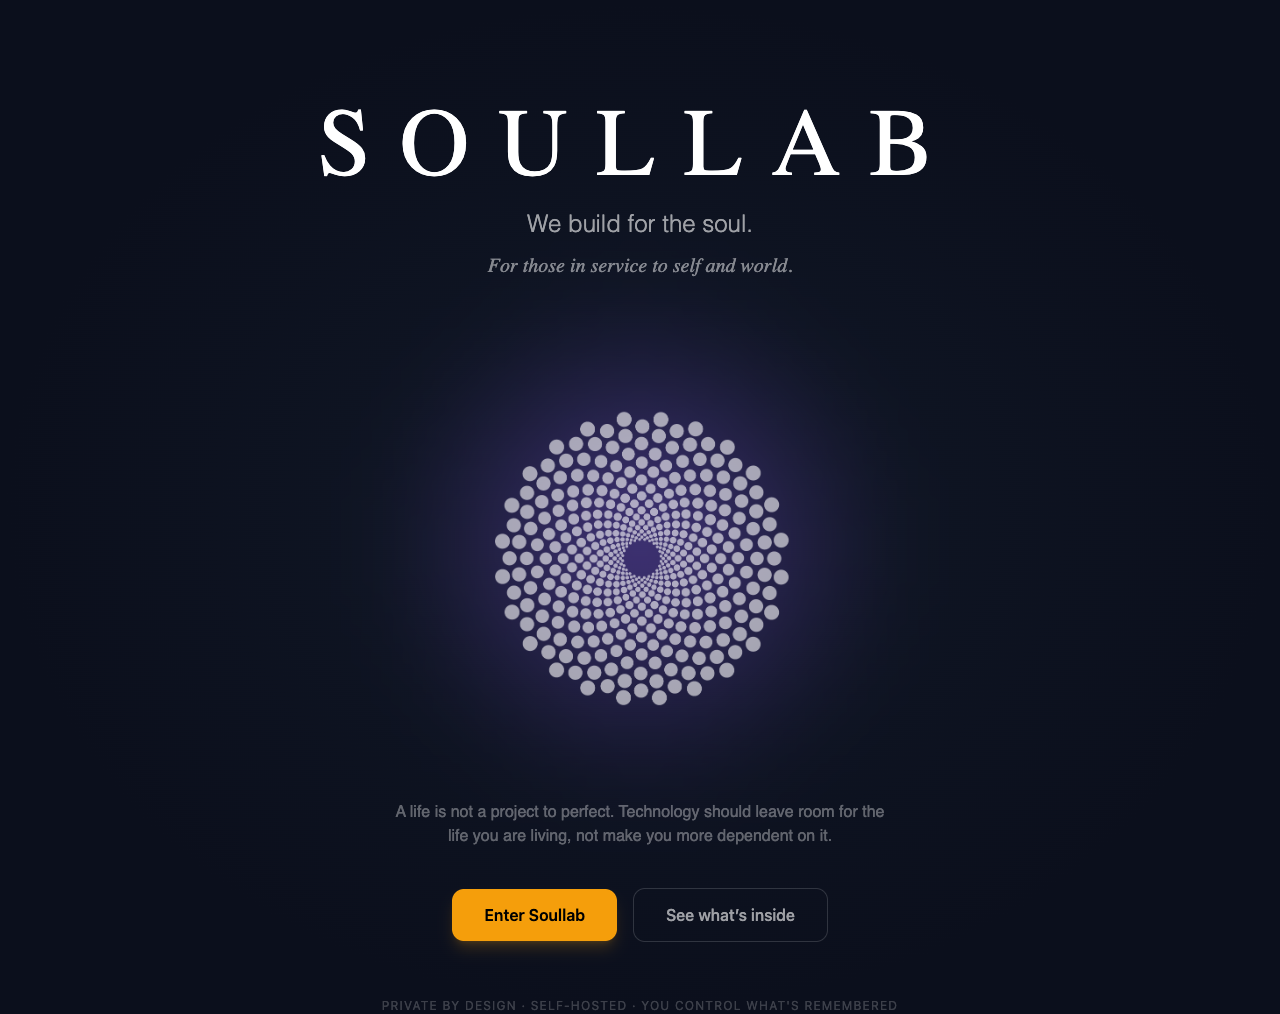
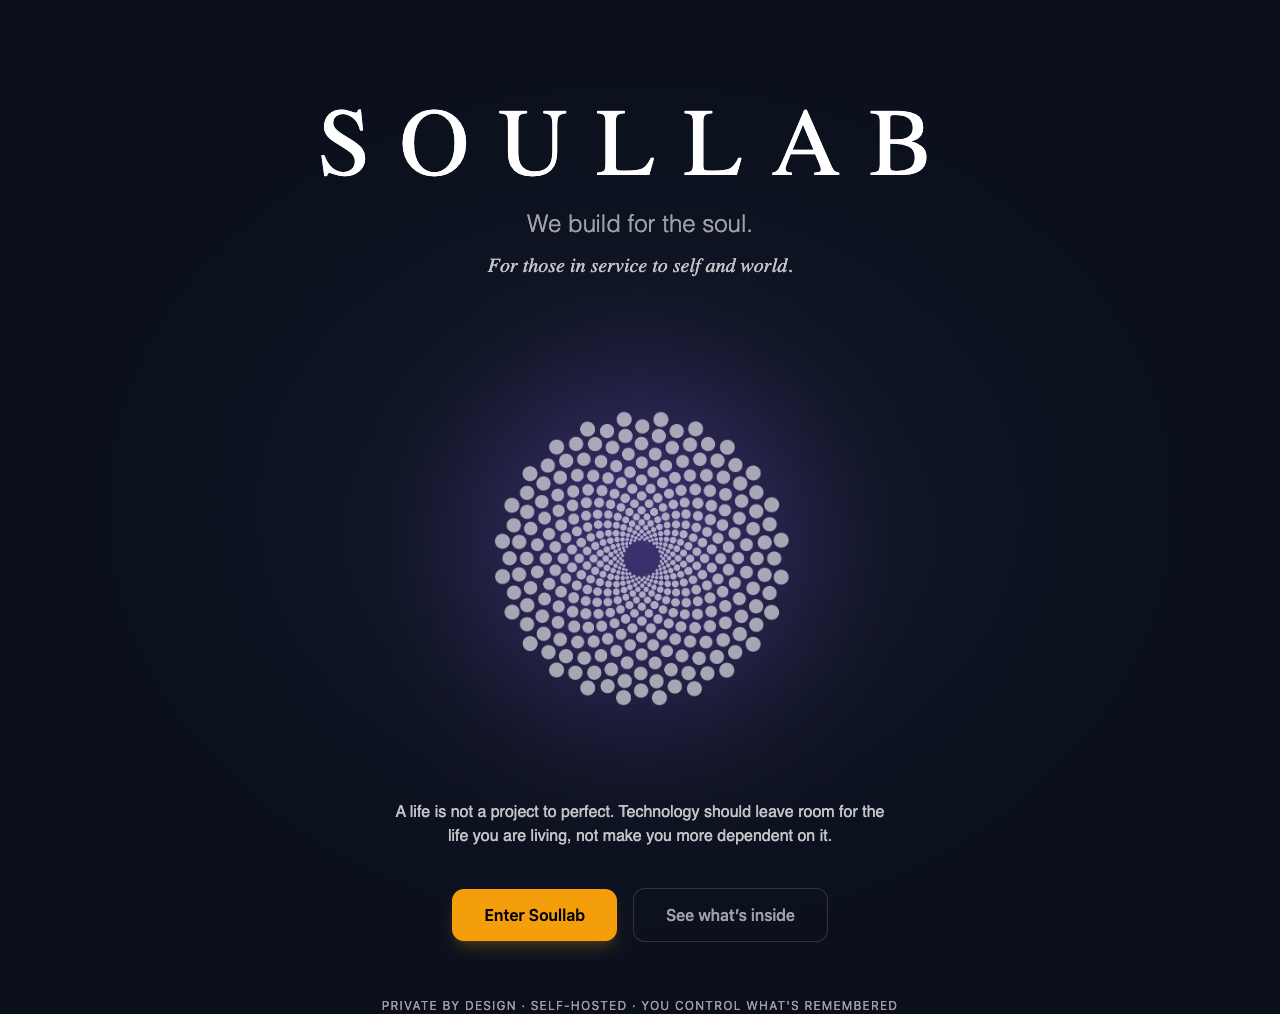
fix(brand): increase Service First hero legibility on desktop and mobile

Changed region(s): [[0.3125, 0.9783, 0.6875, 1.0], [0.3125, 0.7949, 0.6875, 0.8254], [0.375, 0.2446, 0.625, 0.2751]]

diff --git a/components/landing/HeroSection.tsx b/components/landing/HeroSection.tsx
@@ -49,7 +49,7 @@ export function HeroSection() {
           initial={{ opacity: 0, y: 10 }}
           animate={{ opacity: 1, y: 0 }}
           transition={{ duration: 0.8, delay: 0.75, ease: 'easeOut' }}
-          className="mt-3 text-base sm:text-lg md:text-xl font-extralight italic text-white/50"
+          className="mt-3 text-base sm:text-lg md:text-xl font-extralight italic text-white/75"
           style={{ fontFamily: "'Crimson Pro', serif" }}
         >
           For those in service to self and world.
@@ -102,7 +102,7 @@ export function HeroSection() {
           initial={{ opacity: 0 }}
           animate={{ opacity: 1 }}
           transition={{ duration: 0.8, delay: 1.2, ease: 'easeOut' }}
-          className="text-sm sm:text-base text-white/35 max-w-lg mx-auto mb-10"
+          className="text-sm sm:text-base text-white/75 max-w-lg mx-auto mb-10"
           style={{ fontFamily: "'Source Sans Pro', sans-serif" }}
         >
           A life is not a project to perfect. Technology should leave room
@@ -135,7 +135,7 @@ export function HeroSection() {
           initial={{ opacity: 0 }}
           animate={{ opacity: 1 }}
           transition={{ duration: 0.8, delay: 1.8 }}
-          className="mt-14 text-white/20 text-xs tracking-widest uppercase"
+          className="mt-14 text-white/60 text-xs tracking-widest uppercase"
         >
           Private by design &middot; Self-hosted &middot; You control what's remembered
         </motion.p>

diff --git a/docs/programme/SERVICE_FIRST_CROSS_SURFACE_R1_REVIEW_HANDOFF_2026-10-13.md b/docs/programme/SERVICE_FIRST_CROSS_SURFACE_R1_REVIEW_HANDOFF_2026-10-13.md
@@ -25,7 +25,7 @@ Founder requested editorial and implementation consistency for the Soullab brand
 
 - Local static fixture bundled the **actual amended React components** with real React 19, framer-motion, and project Tailwind utility classes. Next Link/Image replaced only with semantic local stand-ins, not claimed as full production Next.js or installed marketing fonts.
 - Screenshots at 1280×850 and 390×844 for Hero, Platform, MAIA, and Reflect (8 files in `docs/design/contracts/screenshots/service-first-expression-r1/`).
-- 24 of 24 browser checks PASS. They cover exact copy, Home CTA, absence of auto-MAIA calls, retained free MAIA link, explicit paid Reflect nonavailability, visible Platform text and no document overflow at both sizes. Zero external network requests or JS page errors.
+- 26 of 26 browser checks PASS. They cover exact copy, Home CTA, absence of auto-MAIA calls, retained free MAIA link, explicit paid Reflect nonavailability, visible Platform text and no document overflow at both sizes. Zero external network requests or JS page errors.
 - An initial 390px fixture had 44px horizontal overflow from the pre-existing MAIA aura (`w-[520px]`) and black-on-dark facet text from `text-white/42`. The candidate confines that aura horizontally and uses a supported `text-white/60` opacity; retest: 0px overflow and readable facet text.
 - 22 of 22 focused Jest regression/contract tests PASS across public landing, new Service First textual boundary, Pro Studio Reflect session and beta gate. The installed Jest dependencies came from the older development checkout; the actual JSX was compiled and inspected in the separate fixture, not a revision-matched full Next.js build.
 
@@ -46,3 +46,8 @@ Founder requested editorial and implementation consistency for the Soullab brand
 - No ads, campaign creation, outbound invitations, production website update, billing, model prompts, provider calls, MAIA client encounter or real member records touched.
 
 **R1 disposition:** coherent human-facing wording prepared for evaluation; claim and constitutional safeguards remain controlling; public publication stays **HOLD**.
+
+
+### Contrast correction — October 13 R1b
+
+Founder belief and explanatory copy in the dark landing Hero are now more legible: central descriptor text-white/75, service invitation text-white/75, and quiet trust line text-white/60. The original copy and CTA are unchanged. New synthetic browser assertions verify computed RGB channels for desktop and mobile; actual React screenshots were recaptured and reviewed. This does not substitute for real Next.js staging, full WCAG contrast calculation, or founder human visual acceptance.

diff --git a/docs/design/contracts/service-first-public-entry-r1.md b/docs/design/contracts/service-first-public-entry-r1.md
@@ -54,3 +54,8 @@ No navigation, API request, member authority, model instructions, memory, data-r
 - **Not observed:** full production landing shell, installed fonts, a real logged-in Home transition, MAIA dialogue, Ganesha Life Flow, production CDN cache, accessibility with every assistive technology, advertising or conversion outcomes.
 
 **Disposition:** R1 candidate for founder editorial/design review. The text has not been published, no public site deployment has occurred, and canon ratification alone does not authorize its release.
+
+
+### Contrast correction — October 13 R1b
+
+Founder belief and explanatory copy in the dark landing Hero are now more legible: central descriptor text-white/75, service invitation text-white/75, and quiet trust line text-white/60. The original copy and CTA are unchanged. New synthetic browser assertions verify computed RGB channels for desktop and mobile; actual React screenshots were recaptured and reviewed. This does not substitute for real Next.js staging, full WCAG contrast calculation, or founder human visual acceptance.
